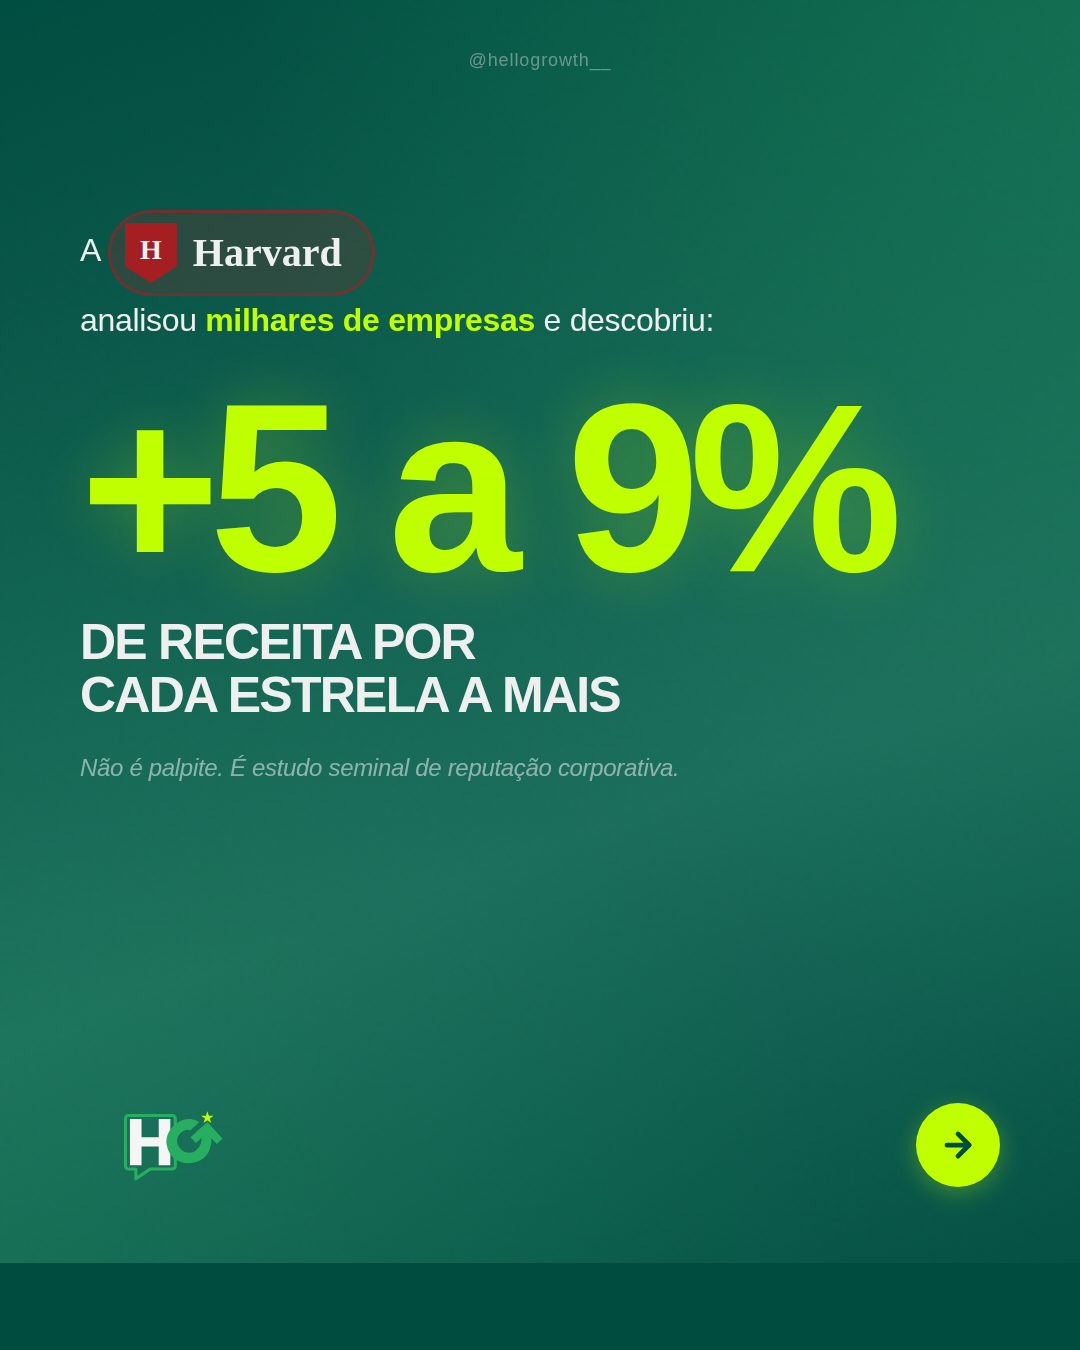
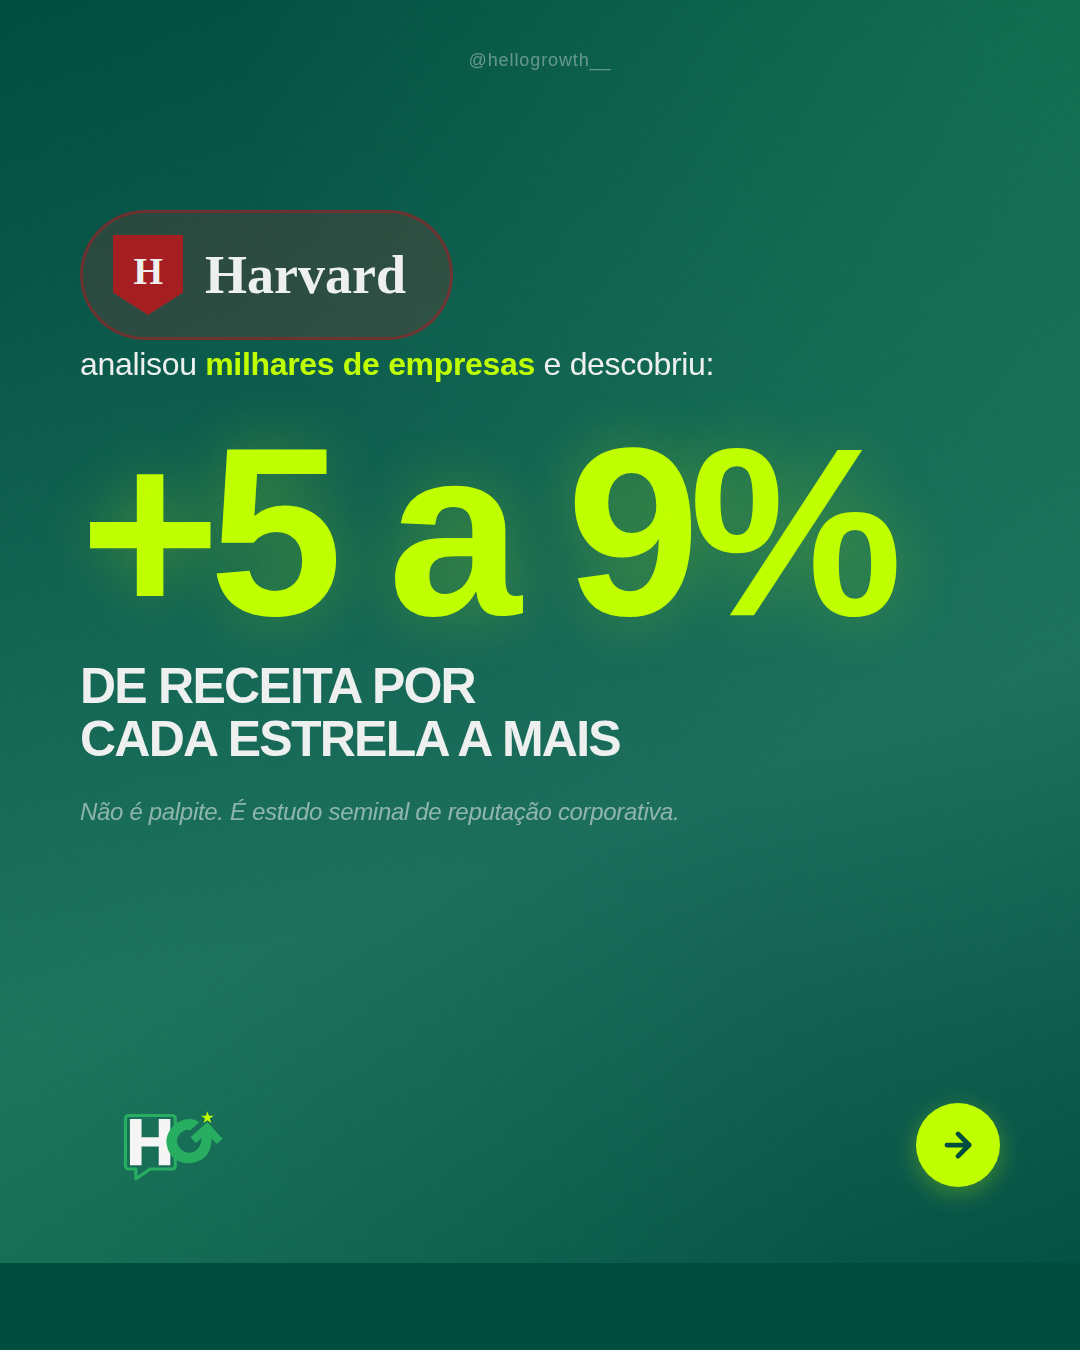
Card 2: enlarge Harvard badge, remove leading "A"
Drop the standalone "A" before the Harvard pill so the badge anchors the
intro on its own. Scale the pill up (shield 70x80, name 54px) and add
generous padding so the crimson shield breathes inside the pill and sits
vertically centered with the "Harvard" word.

https://claude.ai/code/session_01RXRUyw64HWp6pgoosUTsE4

Changed region(s): [[0.0611, 0.1556, 0.8556, 0.6222]]

diff --git a/squads/social-content/output/2026-06-03-195535/slides-brand/slide-02.html b/squads/social-content/output/2026-06-03-195535/slides-brand/slide-02.html
@@ -41,28 +41,30 @@ html, body {
   color: #edf0ee; line-height: 1.5;
 }
 .intro-line .harvard-inline {
-  display: inline-flex; align-items: center; gap: 16px;
+  display: inline-flex; align-items: center; gap: 22px;
   vertical-align: middle;
   background: rgba(164,30,34,0.22);
   border: 3px solid rgba(164,30,34,0.55);
-  border-radius: 80px;
-  padding: 10px 30px 10px 14px;
+  border-radius: 100px;
+  padding: 22px 44px 22px 30px;
   margin-right: 6px;
 }
 .intro-line .harvard-shield-small {
-  width: 52px; height: 60px;
+  width: 70px; height: 80px;
   background: #A41E22;
   clip-path: polygon(0 0, 100% 0, 100% 72%, 50% 100%, 0 72%);
   display: flex; align-items: flex-start; justify-content: center;
-  padding-top: 6px;
+  padding-top: 8px;
   font-family: 'Playfair Display', serif;
-  font-weight: 900; font-size: 28px;
+  font-weight: 900; font-size: 38px;
   color: #edf0ee;
+  flex-shrink: 0;
 }
 .intro-line .harvard-name-inline {
   font-family: 'Playfair Display', serif;
-  font-weight: 700; font-size: 40px;
+  font-weight: 700; font-size: 54px;
   color: #edf0ee; letter-spacing: 0;
+  line-height: 1;
 }
 .intro-line .accent { color: #bfff00; font-weight: 700; }
 
@@ -104,7 +106,7 @@ html, body {
   <div class="handle">@hellogrowth__</div>
 
   <div class="intro-line">
-    A <span class="harvard-inline">
+    <span class="harvard-inline">
       <span class="harvard-shield-small">H</span>
       <span class="harvard-name-inline">Harvard</span>
     </span><br>analisou <span class="accent">milhares de empresas</span> e descobriu:
